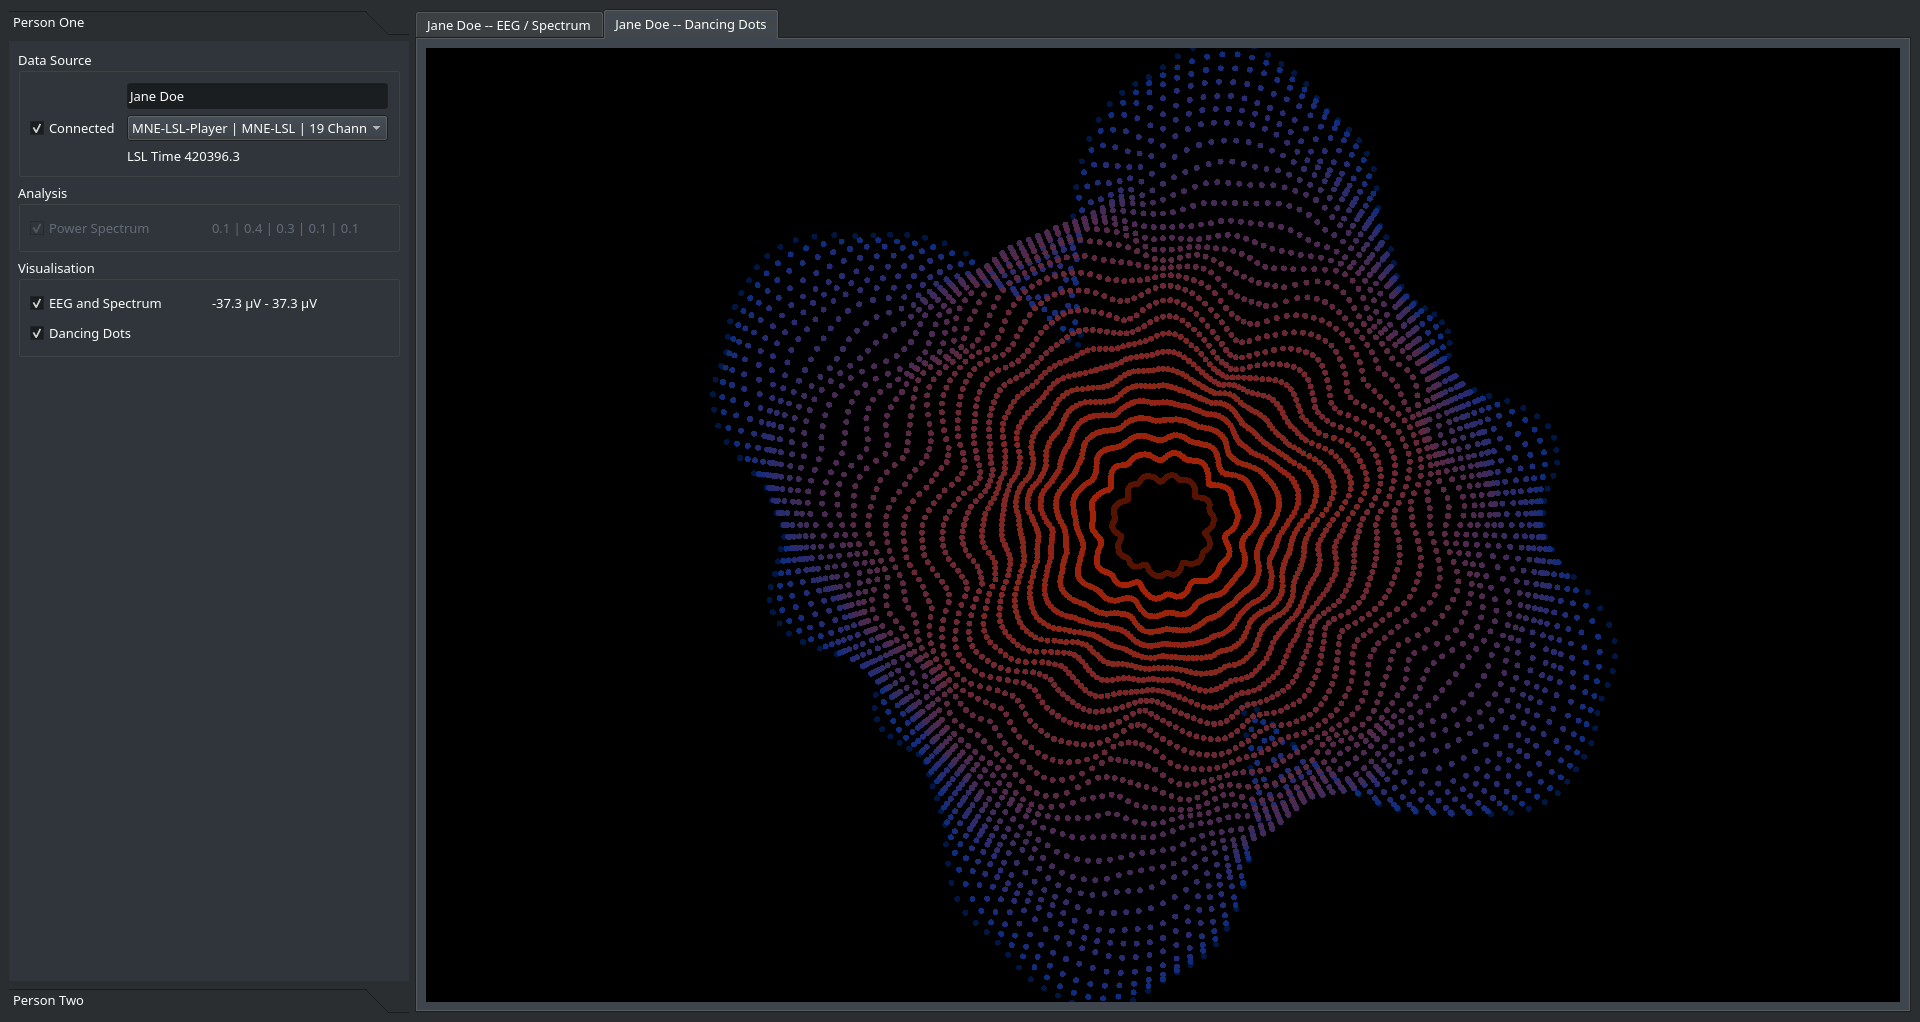
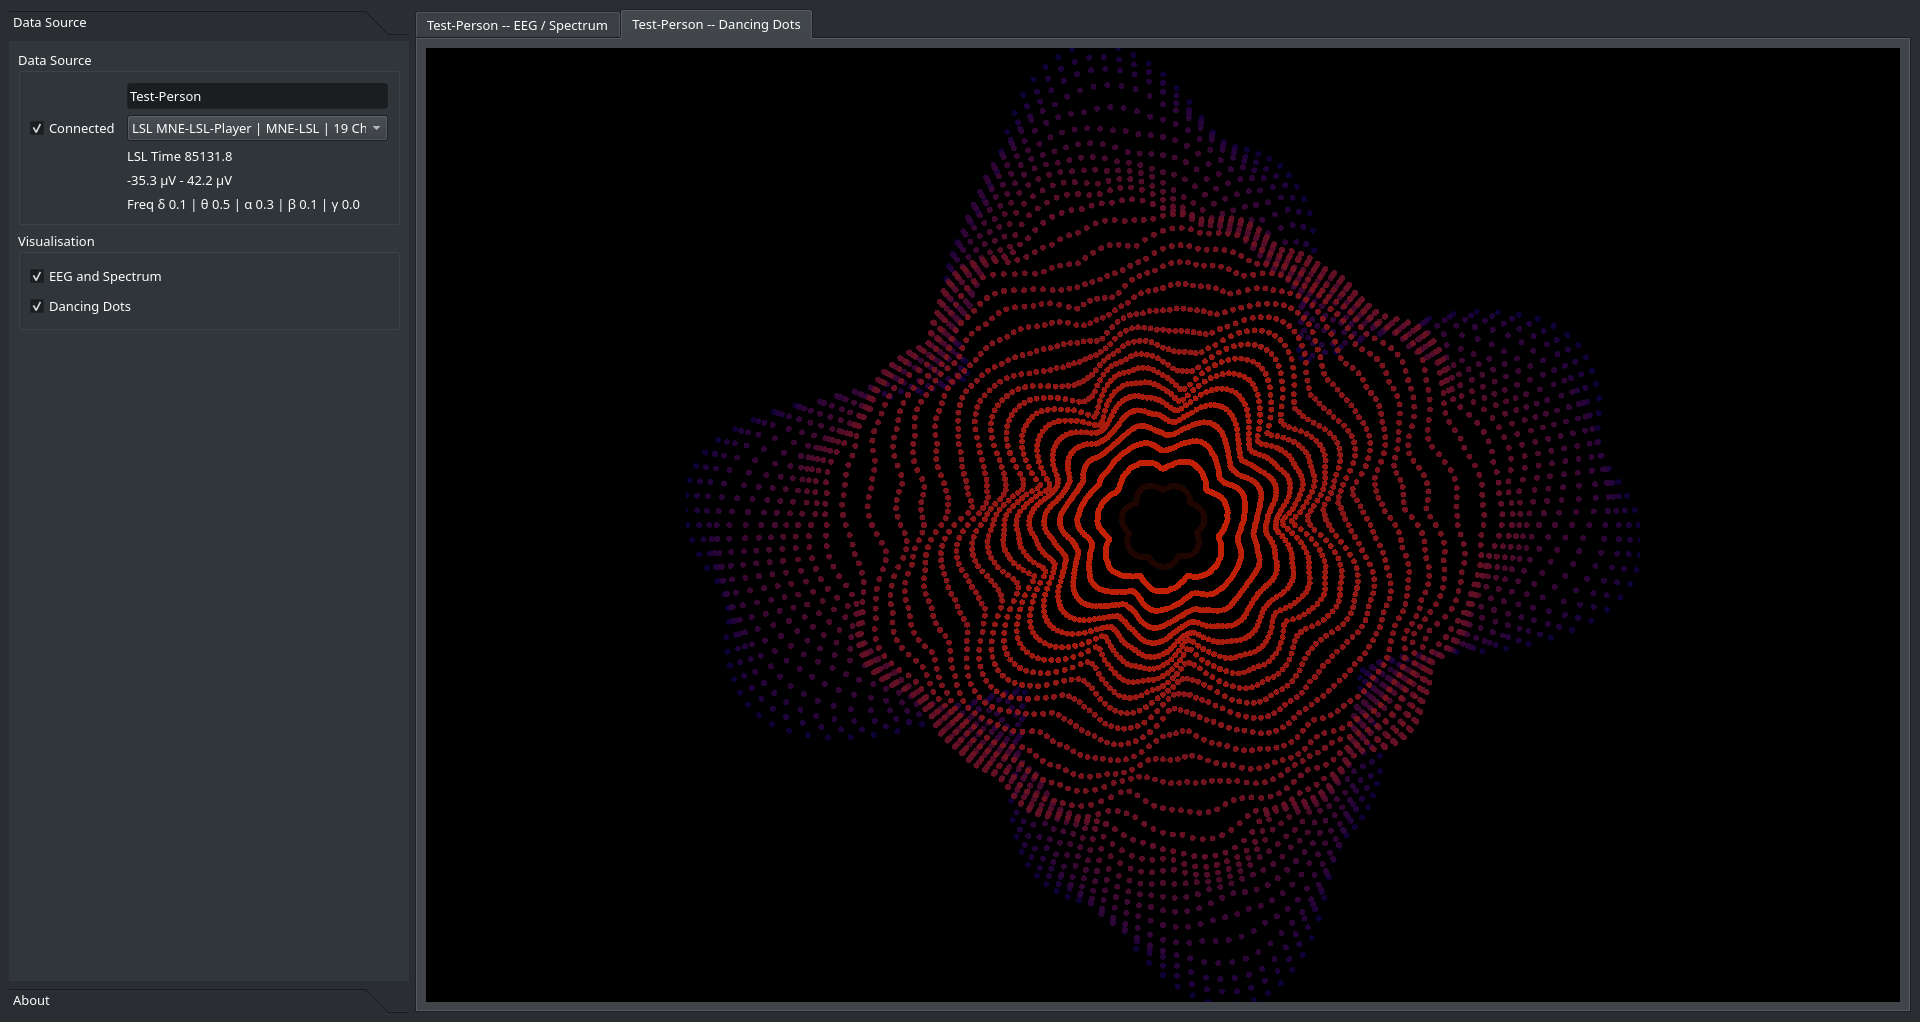
Cleaned up GUI
The pages were renamed, the superfluous (always disabled) checkbox "analyse
psd" was removed, an About text was added, the frequency label display was
improved, and the screenshots in the documentation were updated.

diff --git a/samadhi/mainwindow.py b/samadhi/mainwindow.py
@@ -22,11 +22,8 @@ class Ui_MainWindow(object):
         MainWindow.setWindowIcon(icon)
         self.centralwidget = QtWidgets.QWidget(parent=MainWindow)
         self.centralwidget.setObjectName("centralwidget")
-        self.gridLayout = QtWidgets.QGridLayout(self.centralwidget)
-        self.gridLayout.setObjectName("gridLayout")
-        self.tabWidget = QtWidgets.QTabWidget(parent=self.centralwidget)
-        self.tabWidget.setObjectName("tabWidget")
-        self.gridLayout.addWidget(self.tabWidget, 0, 1, 1, 1)
+        self.formLayout = QtWidgets.QFormLayout(self.centralwidget)
+        self.formLayout.setObjectName("formLayout")
         self.toolBox = QtWidgets.QToolBox(parent=self.centralwidget)
         sizePolicy = QtWidgets.QSizePolicy(QtWidgets.QSizePolicy.Policy.Fixed, QtWidgets.QSizePolicy.Policy.Preferred)
         sizePolicy.setHorizontalStretch(0)
@@ -35,12 +32,41 @@ class Ui_MainWindow(object):
         self.toolBox.setSizePolicy(sizePolicy)
         self.toolBox.setMinimumSize(QtCore.QSize(400, 0))
         self.toolBox.setObjectName("toolBox")
-        self.pageSource01 = QtWidgets.QWidget()
-        self.pageSource01.setGeometry(QtCore.QRect(0, 0, 400, 818))
-        self.pageSource01.setObjectName("pageSource01")
-        self.gridLayout_3 = QtWidgets.QGridLayout(self.pageSource01)
+        self.pageSource = QtWidgets.QWidget()
+        self.pageSource.setGeometry(QtCore.QRect(0, 0, 400, 824))
+        self.pageSource.setObjectName("pageSource")
+        self.gridLayout_3 = QtWidgets.QGridLayout(self.pageSource)
         self.gridLayout_3.setObjectName("gridLayout_3")
-        self.groupBoxVisualisation = QtWidgets.QGroupBox(parent=self.pageSource01)
+        spacerItem = QtWidgets.QSpacerItem(20, 40, QtWidgets.QSizePolicy.Policy.Minimum, QtWidgets.QSizePolicy.Policy.Expanding)
+        self.gridLayout_3.addItem(spacerItem, 3, 0, 1, 1)
+        self.groupBox = QtWidgets.QGroupBox(parent=self.pageSource)
+        self.groupBox.setObjectName("groupBox")
+        self.gridLayout_4 = QtWidgets.QGridLayout(self.groupBox)
+        self.gridLayout_4.setObjectName("gridLayout_4")
+        self.labelEegStatus = QtWidgets.QLabel(parent=self.groupBox)
+        self.labelEegStatus.setEnabled(False)
+        self.labelEegStatus.setObjectName("labelEegStatus")
+        self.gridLayout_4.addWidget(self.labelEegStatus, 5, 1, 1, 1)
+        self.comboBoxStreamName01 = QtWidgets.QComboBox(parent=self.groupBox)
+        self.comboBoxStreamName01.setObjectName("comboBoxStreamName01")
+        self.gridLayout_4.addWidget(self.comboBoxStreamName01, 3, 1, 1, 1)
+        self.labelLslStatus = QtWidgets.QLabel(parent=self.groupBox)
+        self.labelLslStatus.setEnabled(False)
+        self.labelLslStatus.setObjectName("labelLslStatus")
+        self.gridLayout_4.addWidget(self.labelLslStatus, 4, 1, 1, 1)
+        self.checkBoxConnect01 = QtWidgets.QCheckBox(parent=self.groupBox)
+        self.checkBoxConnect01.setObjectName("checkBoxConnect01")
+        self.gridLayout_4.addWidget(self.checkBoxConnect01, 3, 0, 1, 1)
+        self.lineEditName01 = QtWidgets.QLineEdit(parent=self.groupBox)
+        self.lineEditName01.setText("")
+        self.lineEditName01.setObjectName("lineEditName01")
+        self.gridLayout_4.addWidget(self.lineEditName01, 0, 1, 1, 1)
+        self.labelFrequencyBands = QtWidgets.QLabel(parent=self.groupBox)
+        self.labelFrequencyBands.setEnabled(False)
+        self.labelFrequencyBands.setObjectName("labelFrequencyBands")
+        self.gridLayout_4.addWidget(self.labelFrequencyBands, 6, 1, 1, 1)
+        self.gridLayout_3.addWidget(self.groupBox, 0, 0, 1, 1)
+        self.groupBoxVisualisation = QtWidgets.QGroupBox(parent=self.pageSource)
         self.groupBoxVisualisation.setObjectName("groupBoxVisualisation")
         self.gridLayout_6 = QtWidgets.QGridLayout(self.groupBoxVisualisation)
         self.gridLayout_6.setObjectName("gridLayout_6")
@@ -53,76 +79,44 @@ class Ui_MainWindow(object):
         self.checkBoxDspDancingDots.setEnabled(False)
         self.checkBoxDspDancingDots.setObjectName("checkBoxDspDancingDots")
         self.gridLayout_6.addWidget(self.checkBoxDspDancingDots, 3, 0, 1, 1)
-        self.labelEegStatus = QtWidgets.QLabel(parent=self.groupBoxVisualisation)
-        self.labelEegStatus.setEnabled(False)
-        self.labelEegStatus.setObjectName("labelEegStatus")
-        self.gridLayout_6.addWidget(self.labelEegStatus, 0, 1, 1, 1)
         self.gridLayout_3.addWidget(self.groupBoxVisualisation, 2, 0, 1, 1)
-        self.groupBoxAnalysis = QtWidgets.QGroupBox(parent=self.pageSource01)
-        self.groupBoxAnalysis.setObjectName("groupBoxAnalysis")
-        self.gridLayout_5 = QtWidgets.QGridLayout(self.groupBoxAnalysis)
-        self.gridLayout_5.setObjectName("gridLayout_5")
-        self.checkBoxAnalPSD = QtWidgets.QCheckBox(parent=self.groupBoxAnalysis)
-        self.checkBoxAnalPSD.setEnabled(False)
-        self.checkBoxAnalPSD.setChecked(True)
-        self.checkBoxAnalPSD.setObjectName("checkBoxAnalPSD")
-        self.gridLayout_5.addWidget(self.checkBoxAnalPSD, 0, 0, 1, 1)
-        self.labelFrequencyBands = QtWidgets.QLabel(parent=self.groupBoxAnalysis)
-        self.labelFrequencyBands.setEnabled(False)
-        self.labelFrequencyBands.setObjectName("labelFrequencyBands")
-        self.gridLayout_5.addWidget(self.labelFrequencyBands, 0, 1, 1, 1)
-        self.gridLayout_3.addWidget(self.groupBoxAnalysis, 1, 0, 1, 1)
-        self.groupBox = QtWidgets.QGroupBox(parent=self.pageSource01)
-        self.groupBox.setObjectName("groupBox")
-        self.gridLayout_4 = QtWidgets.QGridLayout(self.groupBox)
-        self.gridLayout_4.setObjectName("gridLayout_4")
-        self.lineEditName01 = QtWidgets.QLineEdit(parent=self.groupBox)
-        self.lineEditName01.setText("")
-        self.lineEditName01.setObjectName("lineEditName01")
-        self.gridLayout_4.addWidget(self.lineEditName01, 0, 1, 1, 1)
-        self.checkBoxConnect01 = QtWidgets.QCheckBox(parent=self.groupBox)
-        self.checkBoxConnect01.setObjectName("checkBoxConnect01")
-        self.gridLayout_4.addWidget(self.checkBoxConnect01, 3, 0, 1, 1)
-        self.comboBoxStreamName01 = QtWidgets.QComboBox(parent=self.groupBox)
-        self.comboBoxStreamName01.setObjectName("comboBoxStreamName01")
-        self.gridLayout_4.addWidget(self.comboBoxStreamName01, 3, 1, 1, 1)
-        self.labelLslStatus = QtWidgets.QLabel(parent=self.groupBox)
-        self.labelLslStatus.setEnabled(False)
-        self.labelLslStatus.setObjectName("labelLslStatus")
-        self.gridLayout_4.addWidget(self.labelLslStatus, 4, 1, 1, 1)
-        self.gridLayout_3.addWidget(self.groupBox, 0, 0, 1, 1)
-        spacerItem = QtWidgets.QSpacerItem(20, 40, QtWidgets.QSizePolicy.Policy.Minimum, QtWidgets.QSizePolicy.Policy.Expanding)
-        self.gridLayout_3.addItem(spacerItem, 3, 0, 1, 1)
-        self.toolBox.addItem(self.pageSource01, "")
-        self.page_2 = QtWidgets.QWidget()
-        self.page_2.setGeometry(QtCore.QRect(0, 0, 400, 818))
-        self.page_2.setObjectName("page_2")
-        self.toolBox.addItem(self.page_2, "")
-        self.gridLayout.addWidget(self.toolBox, 0, 0, 1, 1)
+        self.toolBox.addItem(self.pageSource, "")
+        self.pageSettings = QtWidgets.QWidget()
+        self.pageSettings.setGeometry(QtCore.QRect(0, 0, 400, 824))
+        self.pageSettings.setObjectName("pageSettings")
+        self.gridLayout_31 = QtWidgets.QGridLayout(self.pageSettings)
+        self.gridLayout_31.setObjectName("gridLayout_31")
+        self.label = QtWidgets.QLabel(parent=self.pageSettings)
+        self.label.setObjectName("label")
+        self.gridLayout_31.addWidget(self.label, 0, 0, 1, 1)
+        self.toolBox.addItem(self.pageSettings, "")
+        self.formLayout.setWidget(0, QtWidgets.QFormLayout.ItemRole.LabelRole, self.toolBox)
+        self.tabWidget = QtWidgets.QTabWidget(parent=self.centralwidget)
+        self.tabWidget.setObjectName("tabWidget")
+        self.formLayout.setWidget(0, QtWidgets.QFormLayout.ItemRole.FieldRole, self.tabWidget)
         MainWindow.setCentralWidget(self.centralwidget)
         self.actionQuit = QtGui.QAction(parent=MainWindow)
         self.actionQuit.setObjectName("actionQuit")
 
         self.retranslateUi(MainWindow)
-        self.tabWidget.setCurrentIndex(-1)
         self.toolBox.setCurrentIndex(0)
+        self.tabWidget.setCurrentIndex(-1)
         self.actionQuit.triggered.connect(MainWindow.close) # type: ignore
         QtCore.QMetaObject.connectSlotsByName(MainWindow)
 
     def retranslateUi(self, MainWindow):
         _translate = QtCore.QCoreApplication.translate
         MainWindow.setWindowTitle(_translate("MainWindow", "Samadhi"))
+        self.groupBox.setTitle(_translate("MainWindow", "Data Source"))
+        self.labelEegStatus.setText(_translate("MainWindow", "EEG Status"))
+        self.labelLslStatus.setText(_translate("MainWindow", "LSL Status"))
+        self.checkBoxConnect01.setText(_translate("MainWindow", "Click to connect"))
+        self.lineEditName01.setPlaceholderText(_translate("MainWindow", "Name of Person"))
+        self.labelFrequencyBands.setText(_translate("MainWindow", "Frequency Bands"))
         self.groupBoxVisualisation.setTitle(_translate("MainWindow", "Visualisation"))
         self.checkBoxDspEegPsd.setText(_translate("MainWindow", "EEG and Spectrum"))
         self.checkBoxDspDancingDots.setText(_translate("MainWindow", "Dancing Dots"))
-        self.labelEegStatus.setText(_translate("MainWindow", "EEG Status"))
-        self.groupBoxAnalysis.setTitle(_translate("MainWindow", "Analysis"))
-        self.checkBoxAnalPSD.setText(_translate("MainWindow", "Power Spectrum"))
-        self.labelFrequencyBands.setText(_translate("MainWindow", "Frequency Bands"))
-        self.groupBox.setTitle(_translate("MainWindow", "Data Source"))
-        self.lineEditName01.setPlaceholderText(_translate("MainWindow", "Name of Person"))
-        self.checkBoxConnect01.setText(_translate("MainWindow", "Click to connect"))
-        self.labelLslStatus.setText(_translate("MainWindow", "LSL Status"))
-        self.toolBox.setItemText(self.toolBox.indexOf(self.pageSource01), _translate("MainWindow", "Person One"))
-        self.toolBox.setItemText(self.toolBox.indexOf(self.page_2), _translate("MainWindow", "Person Two"))
+        self.toolBox.setItemText(self.toolBox.indexOf(self.pageSource), _translate("MainWindow", "Data Source"))
+        self.label.setText(_translate("MainWindow", "<html><head/><body><p>Samadhi EEG<br/><br/>Development version<br/><br/>Software to explore, test, and make available<br/>different visualisations for EEG.<br/><br/>License: GPLv4<br/><br/>Web: <a href=\"https://samadhi-eeg.info\"><span style=\" text-decoration: underline; color:#1d99f3;\">https://samadhi-eeg.info<br/></span></a>Source code, bugs, issues: <a href=\"https://github.com/jkanev/samadhi\"><span style=\" text-decoration: underline; color:#1d99f3;\">github.com/jkanev/samadhi</span></a></p></body></html>"))
+        self.toolBox.setItemText(self.toolBox.indexOf(self.pageSettings), _translate("MainWindow", "About"))
         self.actionQuit.setText(_translate("MainWindow", "Quit"))

diff --git a/samadhi/samadhi.py b/samadhi/samadhi.py
@@ -60,7 +60,6 @@ class Mind:
     _combobox_streamname = False
     _lineedit_name = False
     _checkbox_connect_lsl = False
-    _checkbox_analyse_psd = False
     _checkbox_display_eegpsd = False
     _checkbox_visualisation_ddots = False
     _parent_tabwidget = False
@@ -94,14 +93,13 @@ class Mind:
     # dancing dots display
     _ddots_tab = False
 
-    def __init__(self, combobox_streamname, lineedit_name, checkbox_connect, checkbox_analyse_psd,
+    def __init__(self, combobox_streamname, lineedit_name, checkbox_connect,
                        checkbox_display_eegpsd, checkbox_visualisation_ddots,
                        lsl_info, eeg_info, bnd_info,
                        parent_tabwidget):
         self._combobox_streamname = combobox_streamname
         self._lineedit_name = lineedit_name
         self._checkbox_connect_lsl = checkbox_connect
-        self._checkbox_analyse_psd = checkbox_analyse_psd
         self._checkbox_display_eegpsd = checkbox_display_eegpsd
         self._checkbox_visualisation_ddots = checkbox_visualisation_ddots
         self._lsl_label = lsl_info
@@ -174,6 +172,7 @@ class Mind:
             self._lsl_label.setEnabled(False)
             self._checkbox_connect_lsl.setText("Click to connect")
             self._eeg_label.setEnabled(False)
+            self._bnd_label.setEnabled(False)
             self._create_eegpsd_tab(False)
             self._create_dancing_dots_tab(False)
         except:
@@ -414,7 +413,6 @@ class Mind:
             hst_lines[n].set_color(color=colour)
             hst_lines[n].set_linewidth(0.5)
 
-        self._eeg_label.setEnabled(True)
         while self._streaming and self._showing_eegpsd:
             try:
                 with self._eeg_lock:
@@ -439,8 +437,6 @@ class Mind:
                 self._fft_canvas.draw()
                 self._bnd_canvas.draw()
                 self._hst_canvas.draw()
-                with self._gui_lock:
-                    self._eeg_info = "{:.1f} µV - {:.1f} µV".format(eeg_min*1e6, eeg_max*1e6)
             except Exception as e:
                 print(e)
                 time.sleep(0.5)
@@ -504,7 +500,7 @@ class Mind:
 
         # init noise sources (sine waves of known frequencies)
         samples = 2 * int(self._sampling_rate)
-        freqs = np.cumsum(np.ones(40))     # going from 1 Hz to 40 Hz
+        freqs = np.round((np.cumsum(np.cumsum(np.ones(40))))*39/820+1)     # going from 1 Hz to 40 Hz, staying longer at the low ones
         waves = np.sin(np.cumsum(2.0*np.pi*np.ones((40, samples))/(self._sampling_rate), axis=1).T * freqs).T
 
         # start streaming loop
@@ -540,6 +536,11 @@ class Mind:
         while not len(self._eeg_data):
             time.sleep(0.5)
 
+        # activate labels
+        self._eeg_label.setEnabled(True)
+        self._bnd_label.setEnabled(True)
+
+        # initialise data objects
         self._fft_freqs = np.fft.rfftfreq(self._samples, d=1.0 / self._sampling_rate, device=None)
         bin_freqs = np.array([3.5, 7.5, 12.5, 30.5, 50.0, 70.0])   # delta, theta, alpha, beta, gamma, total
         bins = [abs(self._fft_freqs - f).argmin() for f in bin_freqs]
@@ -550,11 +551,14 @@ class Mind:
         is_relative_total = True
         normalisation = [1.0, 2.0, 4.0, 8.0, 16.0]
         is_normalised = True
+
         # start streaming loop
         while self._streaming:
             try:
                 with self._fft_lock:
                     with self._eeg_lock:
+                        eeg_min = self._eeg_data.min()
+                        eeg_max = self._eeg_data.max()
                         self._fft_data = np.fft.rfft(self._eeg_data, axis=1)
                     self._fft_data = np.abs(self._fft_data)**2
                     fft_all_channels = self._fft_data.sum(axis=0)[1:] / self._channels     # sum of fft over all channels, excluding DC
@@ -574,12 +578,13 @@ class Mind:
                             self._hst_data[:, :-1] = self._hst_data[:, 1:]
                             self._hst_data[:, -1] = self._bnd_data
                     if is_relative_total:
-                        self._bnd_info = "{:0.1f} | {:0.1f} | {:0.1f} | {:0.1f} | {:0.1f}".format(*self._bnd_data)
+                        self._bnd_info = "Freq δ {:0.1f} | θ {:0.1f} | α {:0.1f} | β {:0.1f} | γ {:0.1f}".format(*self._bnd_data)
                     else:
-                        self._bnd_info = "{:0.1f} | {:0.1f} | {:0.1f} | {:0.1f} | {:0.1f}".format(
+                        self._bnd_info = "Freq δ {:0.1f} | θ {:0.1f} | α {:0.1f} | β {:0.1f} | γ {:0.1f}".format(
                             self._bnd_data[0] * 1e6, self._bnd_data[1] * 1e6, self._bnd_data[2] * 1e6,
                             self._bnd_data[3] * 1e6,
                             self._bnd_data[4] * 1e6)
+                    self._eeg_info = "{:.1f} µV - {:.1f} µV".format(eeg_min * 1e6, eeg_max * 1e6)
             except Exception as e:
                 print(e)
                 time.sleep(0.5)
@@ -618,6 +623,7 @@ class Mind:
     def get_data(self):
         return self._bnd_data
 
+
 class SamadhiWindow(QtWidgets.QMainWindow, Ui_MainWindow):
     """
     Implements the main part of the GUI.
@@ -647,7 +653,7 @@ class SamadhiWindow(QtWidgets.QMainWindow, Ui_MainWindow):
 
         # add one mind
         self.add_mind(self.comboBoxStreamName01, self.lineEditName01, self.checkBoxConnect01,
-                      self.checkBoxAnalPSD, self.checkBoxDspEegPsd, self.checkBoxDspDancingDots,
+                      self.checkBoxDspEegPsd, self.checkBoxDspDancingDots,
                       self.labelLslStatus, self.labelEegStatus, self.labelFrequencyBands)
 
     def __del__(self):
@@ -657,11 +663,9 @@ class SamadhiWindow(QtWidgets.QMainWindow, Ui_MainWindow):
         print("... main windows closed.")
 
     def add_mind(self, combobox_streamname, lineedit_name, checkbox_connect,
-                       checkbox_analyse,
                        checkbox_display_eegpsd, checkbox_display_ddots,
                        lsl_info, eeg_info, bnd_info):
         self._minds.append(Mind(combobox_streamname, lineedit_name, checkbox_connect,
-                                checkbox_analyse,
                                 checkbox_display_eegpsd, checkbox_display_ddots,
                                 lsl_info, eeg_info, bnd_info, self.tabWidget))
 
